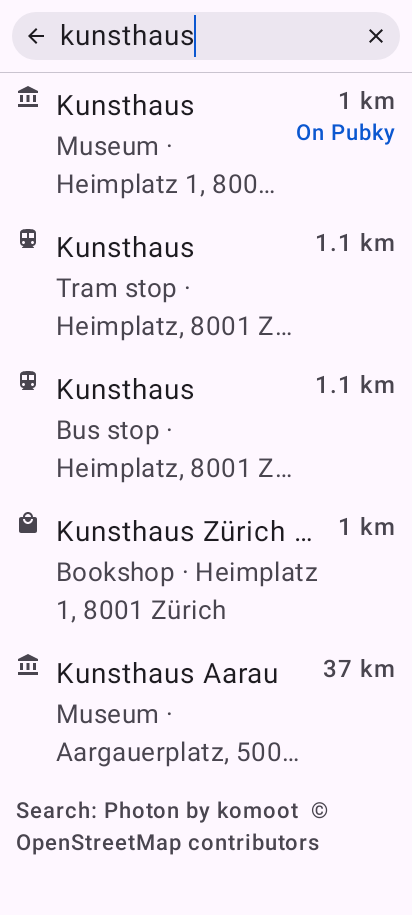
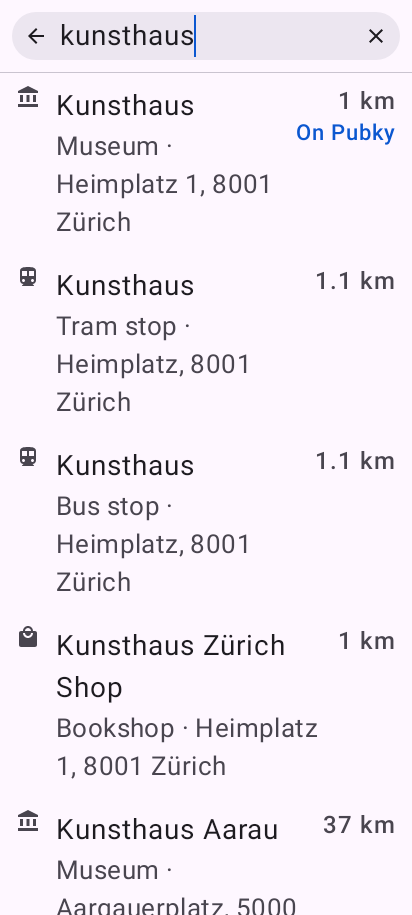
fix(search): result rows show the whole name and address at a large font size
At 200 % font a search result row cut its address after the kind
('Museum ·' / 'Heimplatz 1, 800…') and long names ('Kunsthaus Zürich …'):
the kind fills the first line beside the distance, so the 2-line cap left
one line for the address. The name now wraps to 2 lines and kind · address
to 3; at normal size rows are unchanged. SearchRowLargeFontTest checks that
no line is cut at 200 % on a phone.

diff --git a/androidApp/src/test/kotlin/to/pubky/maps/android/SearchRowLargeFontTest.kt b/androidApp/src/test/kotlin/to/pubky/maps/android/SearchRowLargeFontTest.kt
@@ -1,0 +1,122 @@
+package to.pubky.maps.android
+
+import androidx.compose.foundation.layout.fillMaxSize
+import androidx.compose.runtime.CompositionLocalProvider
+import androidx.compose.ui.Modifier
+import androidx.compose.ui.platform.LocalDensity
+import androidx.compose.ui.semantics.SemanticsActions
+import androidx.compose.ui.test.junit4.createComposeRule
+import androidx.compose.ui.test.onNodeWithText
+import androidx.compose.ui.text.TextLayoutResult
+import androidx.compose.ui.unit.Density
+import org.junit.Assert.assertFalse
+import org.junit.Rule
+import org.junit.Test
+import org.junit.runner.RunWith
+import org.robolectric.RobolectricTestRunner
+import org.robolectric.annotation.Config
+import org.robolectric.annotation.GraphicsMode
+import to.pubky.maps.links.GeoPoint
+import to.pubky.maps.place.PlaceRef
+import to.pubky.maps.place.PlaceSource
+import to.pubky.maps.search.PlaceKind
+import to.pubky.maps.search.SearchActions
+import to.pubky.maps.search.SearchList
+import to.pubky.maps.search.SearchMode
+import to.pubky.maps.search.SearchResult
+import to.pubky.maps.search.SearchState
+import to.pubky.maps.search.SourceState
+import to.pubky.maps.ui.PubkyMapsTheme
+
+/**
+ * At Android's largest font size (200 %) on a phone, a search result row shows the place's whole name
+ * and its whole kind and address, beside the distance and the "On Pubky" mark: no line ends in "…".
+ * Native graphics, so text is measured with real fonts.
+ */
+@RunWith(RobolectricTestRunner::class)
+@GraphicsMode(GraphicsMode.Mode.NATIVE)
+@Config(qualifiers = "w412dp-h915dp")
+class SearchRowLargeFontTest {
+    @get:Rule
+    val compose = createComposeRule()
+
+    /** The user stands near Zürich's main station, so each row has a distance. */
+    private val here = GeoPoint(47.3779, 8.5403)
+
+    private fun result(
+        name: String,
+        category: String,
+        address: String,
+        onPubky: Boolean = false,
+    ) = SearchResult(
+        PlaceRef(
+            uri = "https://www.openstreetmap.org/node/${name.hashCode()}",
+            name = name,
+            point = GeoPoint(47.3702, 8.5479),
+            osm = null,
+            source = if (onPubky) PlaceSource.Pinakes else PlaceSource.Photon,
+            category = category,
+            address = address,
+        ),
+        photonRank = 0,
+        pinakesRank = if (onPubky) 0 else null,
+        collections = if (onPubky) 2 else 0,
+        kind = PlaceKind.Culture,
+    )
+
+    private fun showAtLargeFont(vararg results: SearchResult) {
+        val state =
+            SearchState(
+                mode = SearchMode.Editing,
+                query = "kunsthaus",
+                resultsQuery = "kunsthaus",
+                results = results.toList(),
+                photon = SourceState.Answered,
+                pinakes = SourceState.Answered,
+            )
+        compose.setContent {
+            val density = LocalDensity.current
+            CompositionLocalProvider(LocalDensity provides Density(density.density, fontScale = 2f)) {
+                PubkyMapsTheme {
+                    SearchList(
+                        state,
+                        recents = emptyList(),
+                        userLocation = here,
+                        actions = SearchActions(),
+                        modifier = Modifier.fillMaxSize(),
+                    )
+                }
+            }
+        }
+    }
+
+    /** Each of [texts] is in the list and laid out without cutting a line. */
+    private fun assertShownWhole(vararg texts: String) {
+        texts.forEach { text ->
+            val node = compose.onNodeWithText(text, useUnmergedTree = true).fetchSemanticsNode()
+            val layouts = mutableListOf<TextLayoutResult>()
+            node.config[SemanticsActions.GetTextLayoutResult].action?.invoke(layouts)
+            // Not hasVisualOverflow: it reports an ellipsized text as too wide even when it fits.
+            val layout = layouts.single()
+            assertFalse("'$text' is cut", (0 until layout.lineCount).any(layout::isLineEllipsized))
+        }
+    }
+
+    @Test
+    fun aResultOnPubkyShowsItsWholeAddress() {
+        showAtLargeFont(result("Kunsthaus", "Museum", "Heimplatz 1, 8001 Zürich", onPubky = true))
+        assertShownWhole("Kunsthaus", "Museum · Heimplatz 1, 8001 Zürich")
+    }
+
+    @Test
+    fun aResultWithALongerTownShowsItsWholeAddress() {
+        showAtLargeFont(result("Kunsthaus Aarau", "Museum", "Aargauerplatz, 5000 Aarau"))
+        assertShownWhole("Kunsthaus Aarau", "Museum · Aargauerplatz, 5000 Aarau")
+    }
+
+    @Test
+    fun aLongNameWraps() {
+        showAtLargeFont(result("Kunsthaus Zürich Shop", "Bookshop", "Heimplatz 1, 8001 Zürich"))
+        assertShownWhole("Kunsthaus Zürich Shop", "Bookshop · Heimplatz 1, 8001 Zürich")
+    }
+}

diff --git a/shared/src/commonMain/kotlin/to/pubky/maps/search/SearchViews.kt b/shared/src/commonMain/kotlin/to/pubky/maps/search/SearchViews.kt
@@ -302,6 +302,13 @@ private fun StatusLine(
     }
 }
 
+/**
+ * A search result: its name, then its kind and address. At normal size both take one line. They may
+ * wrap (name to 2 lines, kind and address to 3) so that at Android's largest font a row still names the
+ * place and its town in full, as Google Maps' and OsmAnd's result rows grow: the kind fills the first
+ * line and the address needs two more at 200 % beside the distance. The caps keep one long name or
+ * address from filling the list.
+ */
 @Composable
 private fun ResultRow(
     result: SearchResult,
@@ -311,10 +318,10 @@ private fun ResultRow(
 ) {
     val place = result.place
     ListItem(
-        headlineContent = { Text(place.title, maxLines = 1, overflow = TextOverflow.Ellipsis) },
+        headlineContent = { Text(place.title, maxLines = 2, overflow = TextOverflow.Ellipsis) },
         supportingContent =
             resultDetail(result).takeIf { it.isNotEmpty() }?.let { detail ->
-                { Text(detail, maxLines = 2, overflow = TextOverflow.Ellipsis) }
+                { Text(detail, maxLines = 3, overflow = TextOverflow.Ellipsis) }
             },
         leadingContent = { Icon(result.kind.icon, contentDescription = null) },
         trailingContent = {
